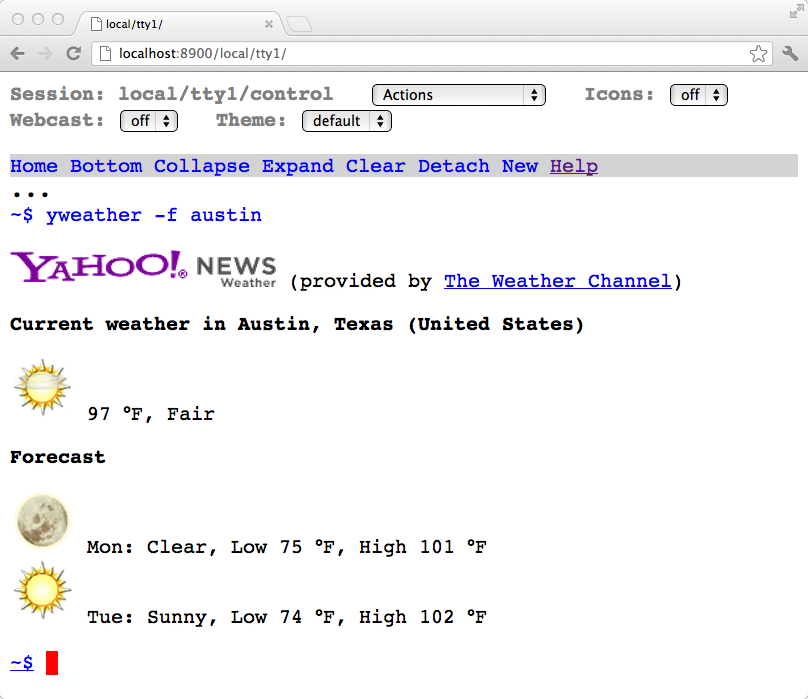
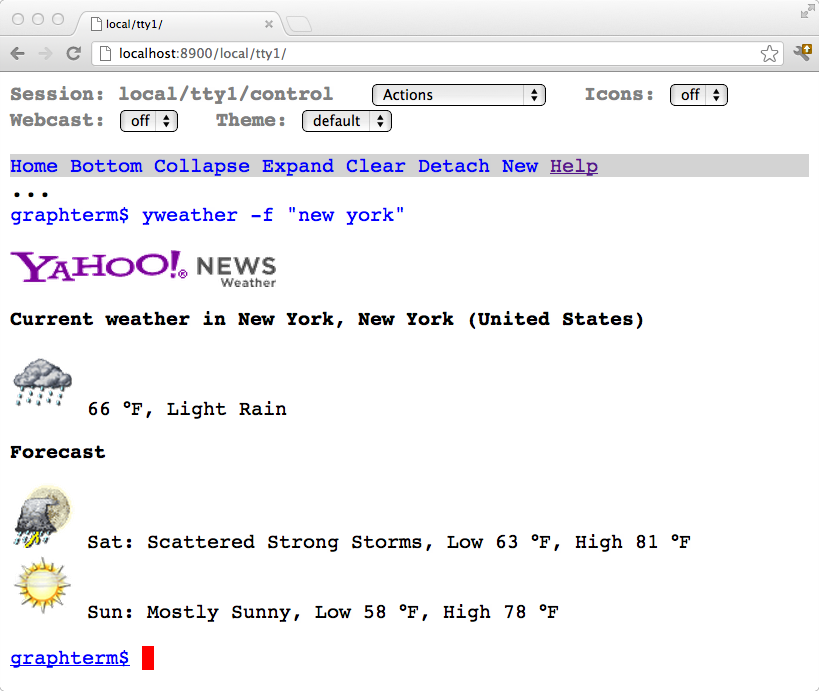
Updated screenshots

diff --git a/SCREENSHOTS.rst b/SCREENSHOTS.rst
@@ -8,6 +8,8 @@ ls vs. gls
 
 .. figure:: https://github.com/mitotic/graphterm/raw/master/doc-images/gt-screen-ls-gls.png
    :align: center
+   :width: 90%
+   :figwidth: 85%
 
    Comparing plain vanilla ``ls`` command and the graphterm-aware ``gls``.
    The icons and the blue filenames are clickable. (The icon display
@@ -48,6 +50,8 @@ Graphical weather forecast (using Yahoo Weather API)
 
 .. figure:: https://github.com/mitotic/graphterm/raw/master/doc-images/gt-screen-yweather1.png
    :align: center
+   :width: 90%
+   :figwidth: 85%
 
    Showing the screen for the command ``yweather`` to
    illustrate inline HTML form display. Since the location argument
@@ -56,9 +60,11 @@ Graphical weather forecast (using Yahoo Weather API)
 
 .. figure:: https://github.com/mitotic/graphterm/raw/master/doc-images/gt-screen-yweather2.png
    :align: center
+   :width: 90%
+   :figwidth: 85%
 
-   The submitted location information is used to generate  new
-   command, ``yweather -f austin``, and execute it for inline
+   The submitted location information is used to generate a new
+   command, ``yweather -f  "new york"``, and execute it for inline
    weather display.
 
    ..
@@ -73,6 +79,8 @@ Inline HTML document display
 
 .. figure:: https://github.com/mitotic/graphterm/raw/master/doc-images/gt-screen-giframe1.png
    :align: center
+   :width: 90%
+   :figwidth: 85%
 
    Showing the screen for the command ``rs2html README.rst | giframe`` to
    illustrate inline HTML document display. The ``rs2html README.rst``
@@ -92,6 +100,8 @@ Inline data visualization (plotting using matplotlib)
 
 .. figure:: https://github.com/mitotic/graphterm/raw/master/doc-images/gt-screen-gmatplot1.png
    :align: center
+   :width: 90%
+   :figwidth: 85%
 
    Showing the screen for the demo program ``gmatplot.py`` which
    generates ``matplotlib`` plots as PNG files and displays them inline.
@@ -108,6 +118,8 @@ Text editing (emacs)
 
 .. figure:: https://github.com/mitotic/graphterm/raw/master/doc-images/gt-screen-emacs.png
    :align: center
+   :width: 90%
+   :figwidth: 85%
 
    Showing the screen for the command ``emacs gtermserver.py`` to
    illustrate backwards compatibility with the traditional terminal interface.
@@ -124,6 +136,8 @@ Graphical code editing using a "cloud" editor
 
 .. figure:: https://github.com/mitotic/graphterm/raw/master/doc-images/gt-screen-gvi.png
    :align: center
+   :width: 90%
+   :figwidth: 85%
 
    Showing the screen for the command ``gvi gtermserver.py`` to
    illustrate graphical editing using the Ajax.org Cloud9 editor (ACE).
@@ -140,6 +154,8 @@ Collapsed mode
 
 .. figure:: https://github.com/mitotic/graphterm/raw/master/doc-images/gt-screen-collapsed.png
    :align: center
+   :width: 90%
+   :figwidth: 85%
 
    Showing the screen when all command output is collapsed. Clicking
    on any of the underlined prompts will display the command output.
@@ -159,6 +175,8 @@ Split scrolling
 
 .. figure:: https://github.com/mitotic/graphterm/raw/master/doc-images/gt-screen-split.png
    :align: center
+   :width: 90%
+   :figwidth: 85%
 
    Showing the split-screen scrolling mode, where the command
    line is anchored at the bottom of the screen. Clicking on ``gls``
@@ -176,9 +194,13 @@ Miscellaneous screenshots
 
 .. figure:: https://github.com/mitotic/graphterm/raw/master/doc-images/gt-screen-ec2launch1.png
    :align: center
+   :width: 90%
+   :figwidth: 85%
 
 .. figure:: https://github.com/mitotic/graphterm/raw/master/doc-images/gt-screen-gtweet1.png
    :align: center
+   :width: 90%
+   :figwidth: 85%
 
    ..
 
